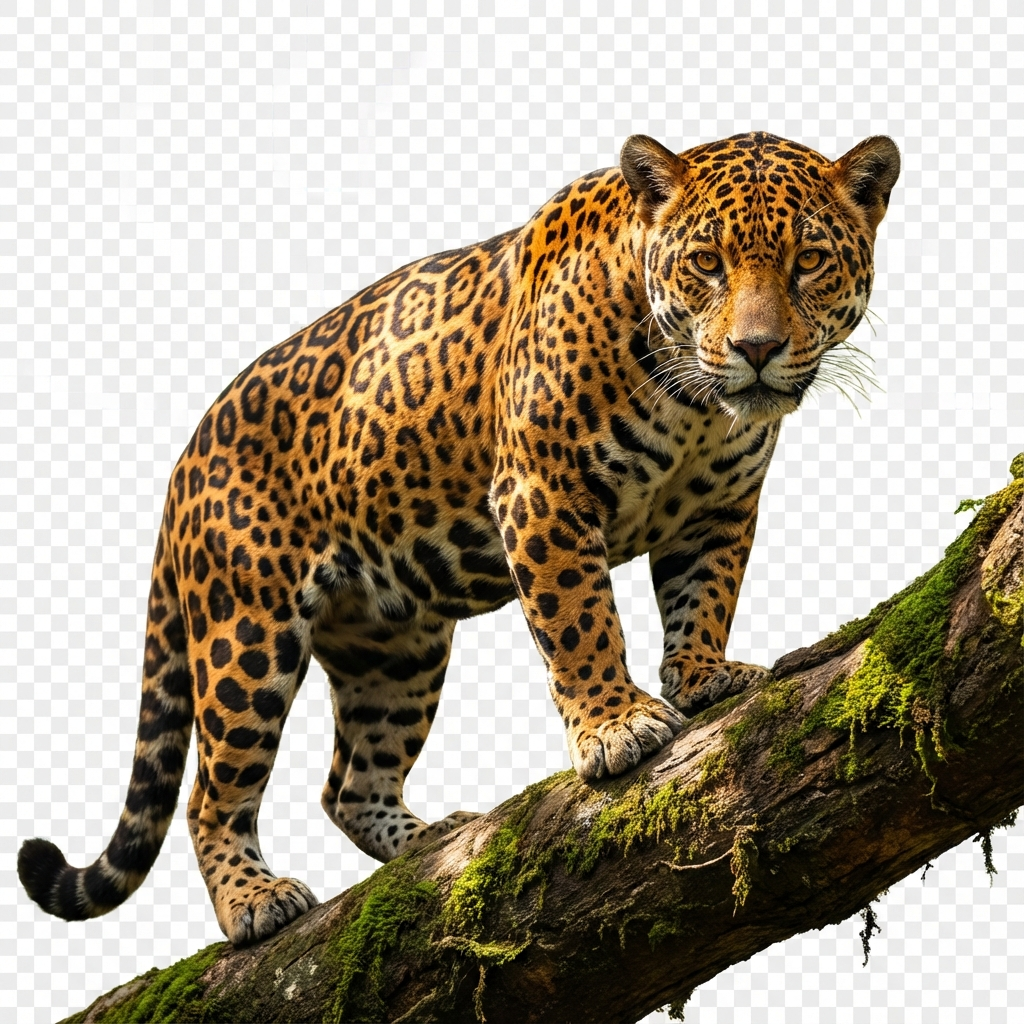
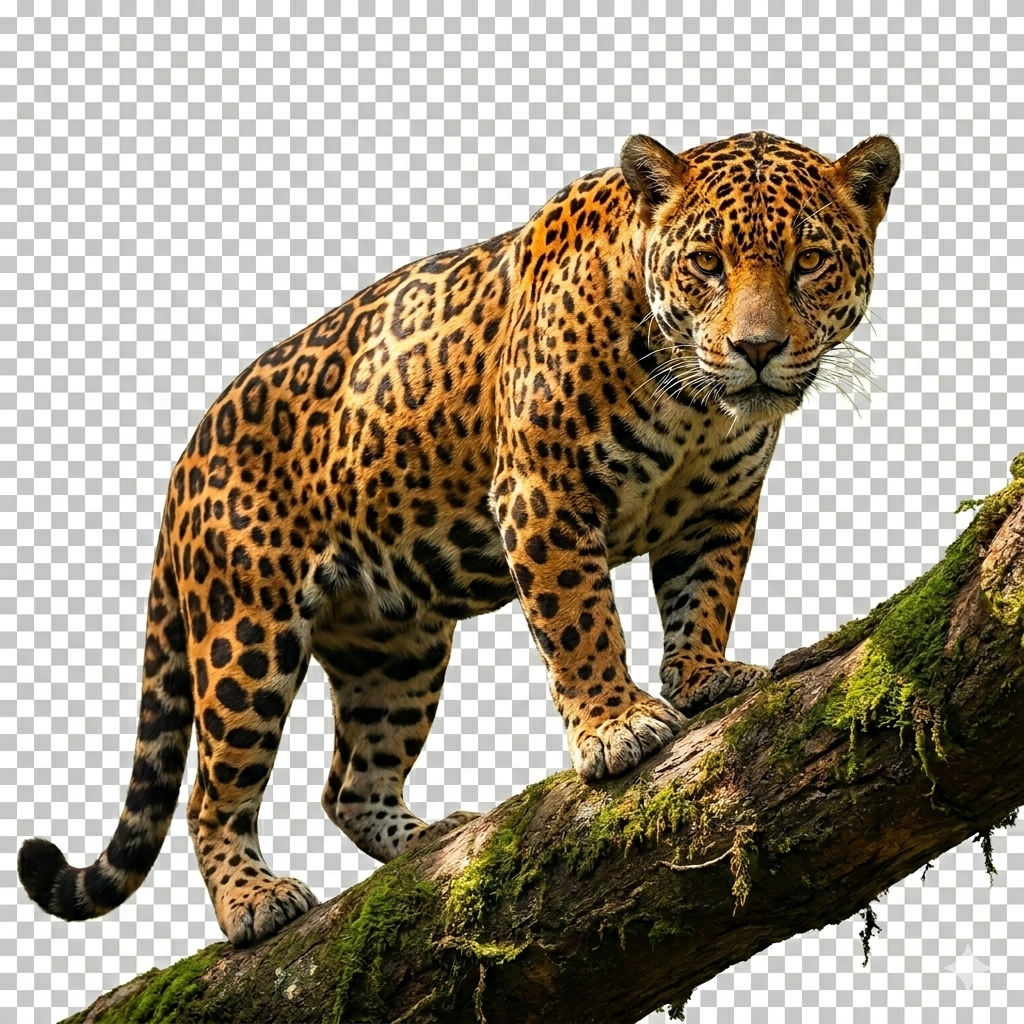
small fixes

diff --git a/src/app/shared/components/nav-menu/nav-menu.component.ts b/src/app/shared/components/nav-menu/nav-menu.component.ts
@@ -50,12 +50,33 @@ import { TranslateModule, TranslateService } from '@ngx-translate/core';
                     <div class="dropdown-panel">
                         <div class="dropdown-content">
                             <div class="py-2">
-                                <a *ngFor="let item of section.items" 
-                                   [routerLink]="item.link"
-                                   routerLinkActive="dropdown-active"
-                                   class="dropdown-item">
-                                    {{ item.label | translate }}
-                                </a>
+                                <ng-container *ngFor="let item of section.items">
+                                    <!-- Regular Item -->
+                                    <a *ngIf="!item.items" 
+                                       [routerLink]="item.link"
+                                       routerLinkActive="dropdown-active"
+                                       class="dropdown-item">
+                                        {{ item.label | translate }}
+                                    </a>
+
+                                    <!-- Nested Dropdown Item -->
+                                    <div *ngIf="item.items" class="relative has-nested-dropdown">
+                                        <div class="dropdown-item flex items-center gap-[10px] cursor-pointer group/nested">
+                                            <span>{{ item.label | translate }}</span>
+                                            <mat-icon class="text-xs opacity-50 transition-transform duration-300 group-hover/nested:translate-x-1 group-hover/nested:text-blue-400 !h-auto !w-auto translate-y-[1.5px]">chevron_right</mat-icon>
+                                        </div>
+                                        <div class="nested-dropdown">
+                                            <div class="dropdown-content-premium py-2">
+                                                <a *ngFor="let subItem of item.items" 
+                                                   [routerLink]="subItem.link"
+                                                   routerLinkActive="dropdown-active"
+                                                   class="dropdown-item-premium">
+                                                    {{ subItem.label | translate }}
+                                                </a>
+                                            </div>
+                                        </div>
+                                    </div>
+                                </ng-container>
                             </div>
                         </div>
                     </div>
@@ -99,12 +120,34 @@ import { TranslateModule, TranslateService } from '@ngx-translate/core';
                 </button>
                 
                 <div *ngIf="activeMobileSection === section.id" class="pl-4 space-y-1 mt-1 border-l-2 border-cyan-500/30">
-                    <a *ngFor="let item of section.items" 
-                       [routerLink]="item.link" 
-                       (click)="closeMobileMenu()"
-                       class="block px-3 py-3 rounded-lg text-base font-medium text-gray-400 hover:text-cyan-400 hover:bg-cyan-500/10 transition-all">
-                       {{ item.label | translate }}
-                    </a>
+                    <ng-container *ngFor="let item of section.items">
+                        <!-- Regular Mobile Item -->
+                        <a *ngIf="!item.items"
+                           [routerLink]="item.link" 
+                           (click)="closeMobileMenu()"
+                           class="block px-3 py-3 rounded-lg text-base font-medium text-gray-400 hover:text-cyan-400 hover:bg-cyan-500/10 transition-all">
+                           {{ item.label | translate }}
+                        </a>
+                        
+                        <!-- Nested Mobile Item -->
+                        <div *ngIf="item.items" class="space-y-1">
+                            <button (click)="toggleMobileSubSection(item.label)" 
+                                    class="w-full text-left flex justify-between px-3 py-3 rounded-lg text-base font-medium text-gray-400 hover:text-cyan-400 hover:bg-cyan-500/10 transition-all">
+                                {{ item.label | translate }}
+                                <mat-icon class="text-xl">{{ activeMobileSubSection === item.label ? 'expand_less' : 'expand_more' }}</mat-icon>
+                            </button>
+                            
+                            <div *ngIf="activeMobileSubSection === item.label" 
+                                 class="pl-4 border-l-2 border-cyan-800/30 space-y-1 mt-1">
+                                <a *ngFor="let subItem of item.items" 
+                                   [routerLink]="subItem.link" 
+                                   (click)="closeMobileMenu()"
+                                   class="block px-3 py-3 rounded-lg text-base font-medium text-gray-400 hover:text-cyan-400 hover:bg-cyan-500/10 transition-all">
+                                   {{ subItem.label | translate }}
+                                </a>
+                            </div>
+                        </div>
+                    </ng-container>
                 </div>
             </div>
         </div>
@@ -125,12 +168,31 @@ import { TranslateModule, TranslateService } from '@ngx-translate/core';
         @apply absolute left-1/2 transform -translate-x-1/2 mt-0 w-64 opacity-0 invisible group-hover:opacity-100 group-hover:visible transition-all duration-500 ease-out origin-top z-[1000] pt-3;
     }
     .dropdown-content {
-        @apply rounded-2xl shadow-[0_10px_40px_rgba(0,0,0,0.8)] overflow-hidden bg-[#020617]/95 backdrop-blur-2xl border border-white/10;
+        @apply rounded-2xl shadow-[0_10px_40px_rgba(0,0,0,0.8)] bg-[#020617]/95 backdrop-blur-2xl border border-white/10;
+    }
+    .dropdown-content-premium {
+        @apply rounded-2xl shadow-[0_10px_40px_rgba(0,0,0,0.8)] bg-gradient-to-br from-[#020617]/95 via-[#0f172a]/95 to-[#1e1b4b]/95 backdrop-blur-2xl border border-blue-500/30;
+        box-shadow: 0 0 20px rgba(59, 130, 246, 0.1), 0 10px 40px rgba(0,0,0,0.8);
+    }
+    .nested-dropdown {
+        @apply absolute left-full top-0 w-56 opacity-0 invisible transition-all duration-300 z-[1001] pl-2;
+    }
+    .has-nested-dropdown:hover .nested-dropdown {
+        @apply opacity-100 visible translate-x-1;
     }
     .dropdown-item {
         @apply block px-4 py-3 text-sm text-gray-400 hover:bg-cyan-500/10 hover:text-cyan-400 transition-all duration-200 border-l-4 border-transparent hover:border-cyan-500 hover:pl-6;
         &.dropdown-active {
             @apply bg-cyan-500/5 text-cyan-400 border-l-cyan-500 pl-6;
+        }
+    }
+    .dropdown-item-premium {
+        @apply block px-4 py-3 text-sm text-gray-300 hover:bg-white/5 hover:text-white transition-all duration-200 border-l-4 border-transparent hover:border-blue-400 hover:pl-6;
+        &:hover {
+           text-shadow: 0 0 8px rgba(96, 165, 250, 0.5);
+        }
+        &.dropdown-active {
+            @apply bg-blue-500/10 text-white border-l-purple-500 pl-6;
         }
     }
     .nav-item-mobile {
@@ -199,6 +261,7 @@ export class NavMenuComponent {
    isMobileMenuOpen = false;
    activeDropdown: string | null = null;
    activeMobileSection: string | null = null;
+   activeMobileSubSection: string | null = null;
 
    get currentLang() {
       return this.translate.currentLang || 'es';
@@ -210,7 +273,12 @@ export class NavMenuComponent {
          label: 'COMMON.ANIMALS',
          items: [
             { label: 'COMMON.MAMMALS', link: '/amazonia/animales/mamiferos-terrestres' },
-            { label: 'COMMON.BIRDS', link: '/amazonia/animales/aves-amazonicas' },
+            {
+               label: 'COMMON.BIRDS',
+               items: [
+                  { label: 'Tucán', link: '/amazonia/animales/aves/tucan' }
+               ]
+            },
             { label: 'COMMON.REPTILES', link: '/amazonia/animales/reptiles-anfibios' },
             { label: 'COMMON.AQUATIC_FAUNA', link: '/amazonia/animales/fauna-acuatica' }
          ]
@@ -296,11 +364,21 @@ export class NavMenuComponent {
          this.activeMobileSection = null;
       } else {
          this.activeMobileSection = id;
+         this.activeMobileSubSection = null; // Reset sub-section when switching main sections
+      }
+   }
+
+   toggleMobileSubSection(label: string) {
+      if (this.activeMobileSubSection === label) {
+         this.activeMobileSubSection = null;
+      } else {
+         this.activeMobileSubSection = label;
       }
    }
 
    closeMobileMenu() {
       this.isMobileMenuOpen = false;
       this.activeMobileSection = null;
+      this.activeMobileSubSection = null;
    }
 }

diff --git a/src/app/features/animales/aves/tucan/tucan.component.scss b/src/app/features/animales/aves/tucan/tucan.component.scss
@@ -251,10 +251,10 @@ $font-body: "Inter", sans-serif;
 .multimedia-tabs-header {
     display: flex;
     justify-content: center;
-    flex-wrap: wrap;
-    gap: 0.5rem;
+    flex-wrap: nowrap;
+    gap: 0.25rem;
     background: rgba($avatar-blue-deep, 0.6);
-    padding: 0.5rem;
+    padding: 0.4rem;
     border-radius: 12px;
     backdrop-filter: blur(10px);
     border: 1px solid rgba(255, 255, 255, 0.1);
@@ -268,17 +268,17 @@ $font-body: "Inter", sans-serif;
         background: transparent;
         border: none;
         color: rgba(255, 255, 255, 0.6);
-        padding: 0.6rem 1rem;
+        padding: 0.5rem 0.75rem;
         border-radius: 8px;
         cursor: pointer;
         font-family: $font-heading;
         font-weight: 600;
         text-transform: uppercase;
-        letter-spacing: 1px;
-        font-size: 0.8rem;
+        letter-spacing: 0.5px;
+        font-size: 0.75rem;
         display: flex;
         align-items: center;
-        gap: 0.5rem;
+        gap: 0.4rem;
         transition: all 0.3s ease;
 
         svg {
@@ -385,7 +385,7 @@ $font-body: "Inter", sans-serif;
     width: 100%;
     max-width: 800px;
     margin: 0 auto;
-    aspect-ratio: 9 / 16;
+    aspect-ratio: 16 / 9;
     border-radius: 12px;
     overflow: hidden;
     background: rgba($avatar-blue-deep, 0.2);

diff --git a/src/app/features/animales/mamiferos-terrestres/jaguar/jaguar.component.scss b/src/app/features/animales/mamiferos-terrestres/jaguar/jaguar.component.scss
@@ -244,10 +244,10 @@ $font-body: "Inter", sans-serif;
 .multimedia-tabs-header {
     display: flex;
     justify-content: center;
-    flex-wrap: wrap;
-    gap: 0.5rem;
+    flex-wrap: nowrap;
+    gap: 0.25rem;
     background: rgba($avatar-blue-deep, 0.6);
-    padding: 0.5rem;
+    padding: 0.4rem;
     border-radius: 12px;
     backdrop-filter: blur(10px);
     border: 1px solid rgba(255, 255, 255, 0.1);
@@ -261,17 +261,17 @@ $font-body: "Inter", sans-serif;
         background: transparent;
         border: none;
         color: rgba(255, 255, 255, 0.6);
-        padding: 0.6rem 1rem;
+        padding: 0.5rem 0.75rem;
         border-radius: 8px;
         cursor: pointer;
         font-family: $font-heading;
         font-weight: 600;
         text-transform: uppercase;
-        letter-spacing: 1px;
-        font-size: 0.8rem;
+        letter-spacing: 0.5px;
+        font-size: 0.75rem;
         display: flex;
         align-items: center;
-        gap: 0.5rem;
+        gap: 0.4rem;
         transition: all 0.3s ease;
 
         svg {

diff --git a/src/app/features/animales/aves/tucan/tucan.component.ts b/src/app/features/animales/aves/tucan/tucan.component.ts
@@ -5,14 +5,14 @@ import { DomSanitizer, SafeResourceUrl } from '@angular/platform-browser';
 import { YouTubePlayer } from '@angular/youtube-player';
 
 @Component({
-  selector: 'app-aves-amazonicas',
+  selector: 'app-tucan',
   standalone: true,
   imports: [CommonModule, YouTubePlayer],
-  templateUrl: './aves-amazonicas.component.html',
-  styleUrl: './aves-amazonicas.component.scss',
+  templateUrl: './tucan.component.html',
+  styleUrl: './tucan.component.scss',
   changeDetection: ChangeDetectionStrategy.OnPush
 })
-export class AvesAmazonicasComponent implements OnInit {
+export class TucanComponent implements OnInit {
   private sanitizer = inject(DomSanitizer);
   private platformId = inject(PLATFORM_ID);
   protected isBrowser = signal(false);

diff --git a/src/app/features/animales/animales.routes.ts b/src/app/features/animales/animales.routes.ts
@@ -21,9 +21,12 @@ export const ANIMALES_ROUTES: Routes = [
                 ]
             },
             {
-                path: 'aves-amazonicas',
-                loadComponent: () => import('./aves-amazonicas/aves-amazonicas.component').then(m => m.AvesAmazonicasComponent),
-                title: 'Aves Amazónicas'
+                path: 'aves',
+                title: 'Aves',
+                children: [
+                    { path: 'tucan', loadComponent: () => import('./aves/tucan/tucan.component').then(m => m.TucanComponent), title: 'Tucán' },
+                    { path: '', redirectTo: 'tucan', pathMatch: 'full' }
+                ]
             },
             {
                 path: 'reptiles-anfibios',
